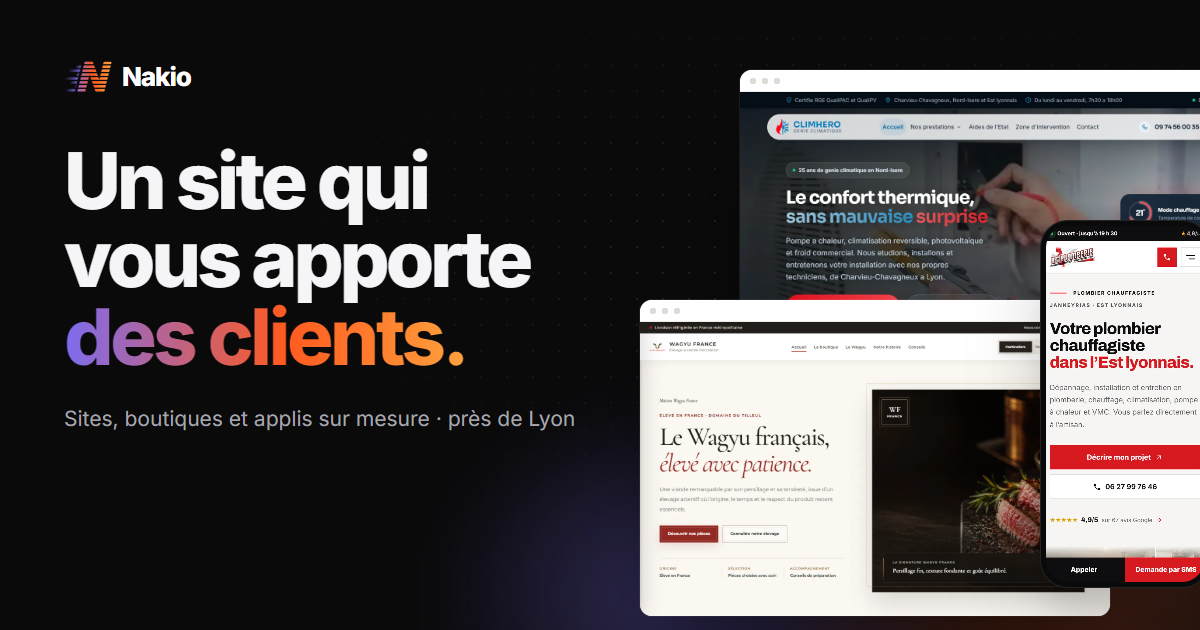
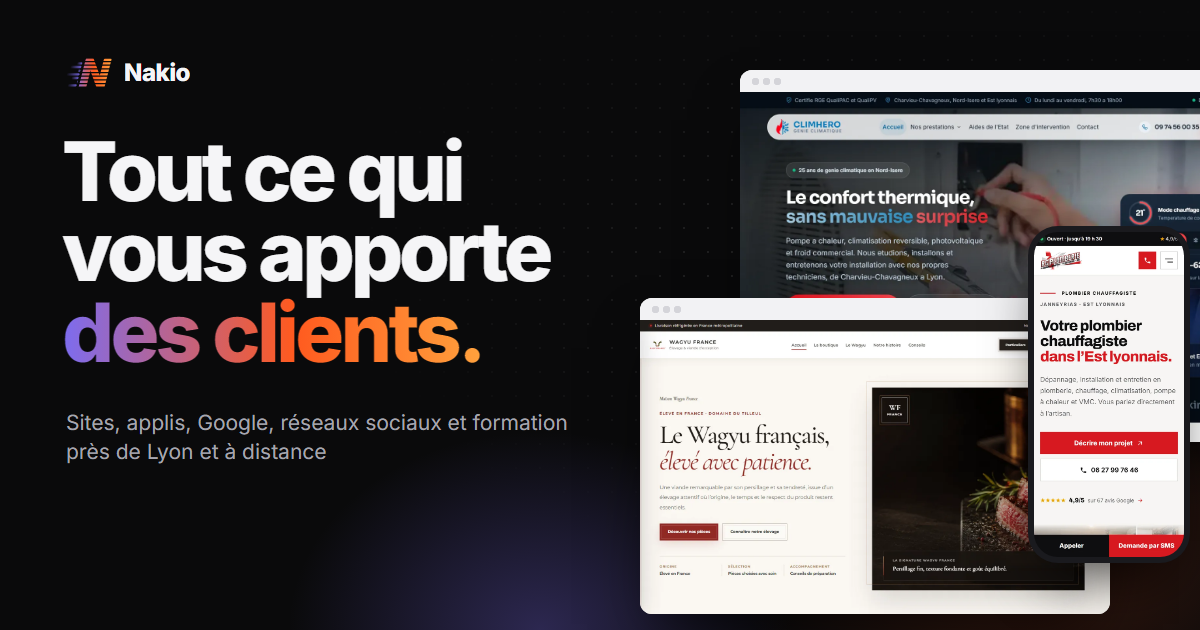
Toutes les compétences de Nakio : six offres, réseaux sociaux et formation

diff --git a/index.html b/index.html
@@ -3,16 +3,16 @@
 <head>
     <meta charset="utf-8">
     <meta name="viewport" content="width=device-width, initial-scale=1">
-    <title>Nakio · Sites, boutiques et applis sur mesure près de Lyon</title>
-    <meta name="description" content="Nakio crée des sites vitrines, des boutiques en ligne et des applis sur mesure pour les artisans, les commerces et les entreprises, puis les fait trouver sur Google. Diagnostic gratuit de votre projet, puis devis détaillé.">
+    <title>Nakio · Sites, applis, Google et réseaux sociaux près de Lyon</title>
+    <meta name="description" content="Sites, boutiques en ligne, applis et logiciels sur mesure, référencement Google, publicité, réseaux sociaux et formation : Nakio s’occupe de tout votre digital. Diagnostic gratuit, puis devis détaillé.">
     <link rel="canonical" href="https://nakio.fr/">
     <meta name="theme-color" content="#0A0A0B">
     <meta property="og:type" content="website">
     <meta property="og:locale" content="fr_FR">
     <meta property="og:site_name" content="Nakio">
     <meta property="og:url" content="https://nakio.fr/">
-    <meta property="og:title" content="Nakio · Un site qui vous apporte des clients">
-    <meta property="og:description" content="Sites vitrines, boutiques en ligne, applis sur mesure, référencement et publicité. Diagnostic gratuit, près de Lyon et à distance.">
+    <meta property="og:title" content="Nakio · Tout ce qui vous apporte des clients">
+    <meta property="og:description" content="Sites, boutiques, applis et logiciels, référencement, publicité, réseaux sociaux et formation. Diagnostic gratuit, près de Lyon et à distance.">
     <meta property="og:image" content="https://nakio.fr/assets/og.png">
     <meta property="og:image:width" content="1200">
     <meta property="og:image:height" content="630">
@@ -32,7 +32,7 @@
         "url": "https://nakio.fr/",
         "email": "contact@nakio.fr",
         "telephone": "+33650080442",
-        "description": "Sites vitrines, boutiques en ligne, applications web et mobiles, référencement et publicité en ligne.",
+        "description": "Sites vitrines, boutiques en ligne, applications et logiciels sur mesure, référencement, publicité en ligne, réseaux sociaux, formation et accompagnement.",
         "address": { "@type": "PostalAddress", "addressLocality": "Mions", "postalCode": "69780", "addressCountry": "FR" },
         "areaServed": "FR",
         "founder": { "@type": "Person", "name": "Rizlene Berrag", "jobTitle": "Fondatrice et développeuse" }
@@ -66,6 +66,7 @@
     <symbol id="i-cog" viewBox="0 0 24 24"><circle cx="12" cy="12" r="3"/><path d="M12 2.8v2.4M12 18.8v2.4M2.8 12h2.4M18.8 12h2.4M5.5 5.5l1.7 1.7M16.8 16.8l1.7 1.7M5.5 18.5l1.7-1.7M16.8 7.2l1.7-1.7"/></symbol>
     <symbol id="i-users" viewBox="0 0 24 24"><circle cx="9" cy="8.5" r="3.2"/><path d="M3.5 19.5c.7-3.2 2.9-5 5.5-5s4.8 1.8 5.5 5"/><circle cx="16.5" cy="9.5" r="2.6"/><path d="M15.5 14.6c2.4 0 4.3 1.6 5 4.9"/></symbol>
     <symbol id="i-card" viewBox="0 0 24 24"><rect x="2.8" y="5.5" width="18.4" height="13" rx="2.4"/><path d="M2.8 10h18.4M6.5 15h3"/></symbol>
+    <symbol id="i-learn" viewBox="0 0 24 24"><path d="M2.5 9.2 12 4.6l9.5 4.6L12 13.8z"/><path d="M6.5 11.4v4.4c1.5 1.5 3.4 2.4 5.5 2.4s4-.9 5.5-2.4v-4.4M21.5 9.2v5"/></symbol>
     <symbol id="i-tag" viewBox="0 0 24 24"><path d="M3.5 12.6V4.5a1 1 0 0 1 1-1h8.1l8 8a1.4 1.4 0 0 1 0 2l-6.1 6.1a1.4 1.4 0 0 1-2 0z"/><circle cx="8" cy="8" r="1.5"/></symbol>
 </svg>
 <a class="skip" href="#contenu">Aller au contenu</a>
@@ -107,8 +108,8 @@
         <div class="wrap hero__inner">
             <div class="hero__text">
                 <p class="pill pill--dark"><span class="pill__dot" aria-hidden="true"></span>Disponible pour de nouveaux projets</p>
-                <h1 class="hero__title">Un site qui vous apporte <span class="gradient-text">des clients.</span></h1>
-                <p class="hero__lead">Je m’appelle Rizlene, et Nakio, c’est mon studio. Je crée des sites, des boutiques en ligne et des applis sur mesure pour les artisans, les commerces et les entreprises, puis je les fais trouver sur Google.</p>
+                <h1 class="hero__title">Tout ce qui vous apporte <span class="gradient-text">des clients.</span></h1>
+                <p class="hero__lead">Je m’appelle Rizlene, et Nakio, c’est mon studio. Sites, boutiques, applis et logiciels, Google, publicité, réseaux sociaux, formation&nbsp;: je m’occupe de tout votre digital, de A à Z.</p>
                 <div class="hero__actions">
                     <a class="btn btn--light" href="#contact">Mon diagnostic gratuit<svg class="i"><use href="#i-arrow"/></svg></a>
                     <a class="btn btn--ghost-light" href="https://wa.me/33650080442?text=Bonjour%20Rizlene%2C%20j%E2%80%99aimerais%20un%20diagnostic%20gratuit%20pour%20mon%20projet." data-wa><svg class="i"><use href="#i-chat"/></svg>Écrire sur WhatsApp</a>
@@ -145,13 +146,13 @@
         </div>
     </div>
 
-    <!-- Ce que je fais : quatre offres claires. -->
+    <!-- Ce que je fais : six offres claires, du site à la formation. -->
     <section class="section section--white" id="services">
         <div class="wrap">
             <header class="section__head reveal">
                 <p class="eyebrow">Ce que je fais pour vous</p>
                 <h2 class="section__title">Tout ce qu’il faut pour être trouvé, choisi et contacté.</h2>
-                <p class="section__lead">Un site seul ne suffit pas toujours. Je m’occupe aussi de ce qui l’entoure, pour qu’il vous apporte vraiment des clients.</p>
+                <p class="section__lead">Un site seul ne suffit pas toujours. Je m’occupe de tout votre digital, de Google aux réseaux sociaux, et je vous forme pour que vous restiez maître de vos outils.</p>
             </header>
             <div class="offers">
                 <article class="offer reveal">
@@ -180,9 +181,9 @@
                 </article>
                 <article class="offer reveal">
                     <span class="offer__icon"><svg class="i"><use href="#i-app"/></svg></span>
-                    <h3>Appli web &amp; mobile</h3>
+                    <h3>Applis &amp; logiciels</h3>
                     <p class="offer__for">Pour un outil fait pour votre métier.</p>
-                    <p>Espace client, réservations, gestion interne&nbsp;: une appli simple dès la première utilisation, sur le web, l’iPhone et Android.</p>
+                    <p>Espace client, réservations, gestion interne, logiciel métier&nbsp;: un outil simple dès la première utilisation, sur le web, l’iPhone et Android.</p>
                     <ul class="ticks">
                         <li>Comptes, documents et paiements</li>
                         <li>iPhone, Android et web</li>
@@ -199,6 +200,28 @@
                         <li>Référencement local</li>
                         <li>Fiche Google Business</li>
                         <li>Google Ads, Facebook, Instagram</li>
+                    </ul>
+                </article>
+                <article class="offer reveal">
+                    <span class="offer__icon"><svg class="i"><use href="#i-heart"/></svg></span>
+                    <h3>Réseaux sociaux</h3>
+                    <p class="offer__for">Pour exister là où vos clients passent leur temps.</p>
+                    <p>Je mets en place vos pages sur les réseaux sociaux, à votre image et reliées à votre site, prêtes à publier.</p>
+                    <ul class="ticks">
+                        <li>Création ou reprise de vos pages</li>
+                        <li>À vos couleurs, reliées à votre site</li>
+                        <li>Prêtes pour vos publications</li>
+                    </ul>
+                </article>
+                <article class="offer reveal">
+                    <span class="offer__icon"><svg class="i"><use href="#i-learn"/></svg></span>
+                    <h3>Formation &amp; accompagnement</h3>
+                    <p class="offer__for">Pour être à l’aise avec vos outils.</p>
+                    <p>Je vous apprends à faire vivre votre site, votre fiche Google et vos réseaux, et je reste à vos côtés quand vous avez besoin de moi.</p>
+                    <ul class="ticks">
+                        <li>Prise en main de vos outils</li>
+                        <li>À votre rythme, à distance ou sur place</li>
+                        <li>Un suivi quand vous en avez besoin</li>
                     </ul>
                 </article>
             </div>
@@ -377,7 +400,7 @@
                     <li><span class="steps__num">1</span><div><h3>Le diagnostic, gratuit</h3><p>Un échange par téléphone, en visio ou sur place près de Lyon, puis mes recommandations concrètes.</p></div></li>
                     <li><span class="steps__num">2</span><div><h3>Le devis détaillé</h3><p>Ce qui sera fait, les délais et le prix. Vous décidez ensuite, tranquillement.</p></div></li>
                     <li><span class="steps__num">3</span><div><h3>La création</h3><p>La maquette d’abord, que vous validez, puis le développement avec une version à tester en ligne.</p></div></li>
-                    <li><span class="steps__num">4</span><div><h3>La mise en ligne et la suite</h3><p>Votre site part en ligne, je le fais connaître sur Google, et je reste là pour la suite.</p></div></li>
+                    <li><span class="steps__num">4</span><div><h3>La mise en ligne et la suite</h3><p>Votre projet part en ligne, je le fais connaître sur Google et les réseaux sociaux, je vous forme si vous le souhaitez, et je reste là pour la suite.</p></div></li>
                 </ol>
             </div>
             <aside class="diag reveal" aria-labelledby="diag-title">
@@ -402,7 +425,7 @@
             <header class="section__head reveal">
                 <p class="eyebrow eyebrow--light">Pourquoi Nakio</p>
                 <h2 class="section__title">Une seule personne, tout votre projet.</h2>
-                <p class="section__lead">Pas de commercial, pas d’intermédiaire&nbsp;: vous parlez directement à celle qui dessine, développe et met en ligne votre site.</p>
+                <p class="section__lead">Pas de commercial, pas d’intermédiaire&nbsp;: vous parlez directement à celle qui conçoit votre projet, le développe, le fait connaître et vous forme.</p>
             </header>
             <ul class="trust reveal">
                 <li class="trust__item"><span class="trust__icon"><svg><use href="#i-person"/></svg></span><h3>Une seule interlocutrice</h3><p>Du premier appel à la mise en ligne, c’est moi qui réponds et qui construis.</p></li>
@@ -420,7 +443,7 @@
                 <div class="about__mark" aria-hidden="true"><img src="/assets/nakio-mark.svg" alt="" width="56" height="36"></div>
                 <p class="eyebrow">Qui est derrière Nakio</p>
                 <h2 class="section__title section__title--sm">Rizlene Berrag, fondatrice et développeuse</h2>
-                <p>J’ai créé Nakio pour que les entreprises aient un site à leur image, sans passer par une grosse agence ni se perdre dans la technique. Je m’occupe de tout&nbsp;: le design, le développement, la mise en ligne et la visibilité.</p>
+                <p>J’ai créé Nakio pour que les entreprises aient un site à leur image, sans passer par une grosse agence ni se perdre dans la technique. Je m’occupe de tout&nbsp;: le design, le développement, la mise en ligne, la visibilité sur Google et les réseaux sociaux, et la formation pour que vous soyez à l’aise avec vos outils.</p>
                 <p>Je suis basée à Mions, près de Lyon, et je travaille aussi à distance, partout en France.</p>
             </div>
             <div class="about__app card reveal">
@@ -463,7 +486,11 @@
                 </details>
                 <details>
                     <summary>Et après la mise en ligne&nbsp;?</summary>
-                    <p>Je reste disponible pour la maintenance, les évolutions, le référencement et la publicité. Votre site continue de vivre avec votre activité.</p>
+                    <p>Je reste disponible pour la maintenance, les évolutions, le référencement, la publicité et les réseaux sociaux. Votre site continue de vivre avec votre activité.</p>
+                </details>
+                <details>
+                    <summary>Pouvez-vous me former à mes outils&nbsp;?</summary>
+                    <p>Oui. Je vous apprends à modifier votre site, à faire vivre votre fiche Google et vos réseaux sociaux, à votre rythme, à distance ou sur place près de Lyon. Et je reste là pour vous accompagner ensuite.</p>
                 </details>
             </div>
         </div>
@@ -490,8 +517,10 @@
                         <legend>Votre projet</legend>
                         <label><input type="checkbox" name="projet" value="Site vitrine"><span>Site vitrine</span></label>
                         <label><input type="checkbox" name="projet" value="Boutique en ligne"><span>Boutique en ligne</span></label>
-                        <label><input type="checkbox" name="projet" value="Appli web ou mobile"><span>Appli</span></label>
+                        <label><input type="checkbox" name="projet" value="Appli ou logiciel"><span>Appli ou logiciel</span></label>
                         <label><input type="checkbox" name="projet" value="Référencement et publicité"><span>Google &amp; publicité</span></label>
+                        <label><input type="checkbox" name="projet" value="Réseaux sociaux"><span>Réseaux sociaux</span></label>
+                        <label><input type="checkbox" name="projet" value="Formation et accompagnement"><span>Formation</span></label>
                         <label><input type="checkbox" name="projet" value="Refonte d’un site"><span>Refonte</span></label>
                     </fieldset>
                     <div class="form__row">
@@ -521,7 +550,7 @@
                     <img class="brand__mark" src="/assets/nakio-mark.svg" alt="" width="32" height="21">
                     <span class="brand__name">Nakio</span>
                 </a>
-                <p>Sites, boutiques et applis sur mesure, près de Lyon. Et <a href="/club/">l’appli des clubs sportifs</a>.</p>
+                <p>Sites, applis, Google, réseaux sociaux et formation, près de Lyon. Et <a href="/club/">l’appli des clubs sportifs</a>.</p>
             </div>
             <nav class="foot__col" aria-label="Le studio">
                 <p class="foot__title">Le studio</p>

diff --git a/application-sur-mesure.html b/application-sur-mesure.html
@@ -138,6 +138,7 @@
     <symbol id="i-cog" viewBox="0 0 24 24"><circle cx="12" cy="12" r="3"/><path d="M12 2.8v2.4M12 18.8v2.4M2.8 12h2.4M18.8 12h2.4M5.5 5.5l1.7 1.7M16.8 16.8l1.7 1.7M5.5 18.5l1.7-1.7M16.8 7.2l1.7-1.7"/></symbol>
     <symbol id="i-users" viewBox="0 0 24 24"><circle cx="9" cy="8.5" r="3.2"/><path d="M3.5 19.5c.7-3.2 2.9-5 5.5-5s4.8 1.8 5.5 5"/><circle cx="16.5" cy="9.5" r="2.6"/><path d="M15.5 14.6c2.4 0 4.3 1.6 5 4.9"/></symbol>
     <symbol id="i-card" viewBox="0 0 24 24"><rect x="2.8" y="5.5" width="18.4" height="13" rx="2.4"/><path d="M2.8 10h18.4M6.5 15h3"/></symbol>
+    <symbol id="i-learn" viewBox="0 0 24 24"><path d="M2.5 9.2 12 4.6l9.5 4.6L12 13.8z"/><path d="M6.5 11.4v4.4c1.5 1.5 3.4 2.4 5.5 2.4s4-.9 5.5-2.4v-4.4M21.5 9.2v5"/></symbol>
     <symbol id="i-tag" viewBox="0 0 24 24"><path d="M3.5 12.6V4.5a1 1 0 0 1 1-1h8.1l8 8a1.4 1.4 0 0 1 0 2l-6.1 6.1a1.4 1.4 0 0 1-2 0z"/><circle cx="8" cy="8" r="1.5"/></symbol>
 </svg>
 <a class="skip" href="#contenu">Aller au contenu</a>
@@ -280,7 +281,7 @@
                     <li><span class="steps__num">1</span><div><h3>Le diagnostic, gratuit</h3><p>Un échange par téléphone, en visio ou sur place près de Lyon, puis mes recommandations concrètes.</p></div></li>
                     <li><span class="steps__num">2</span><div><h3>Le devis détaillé</h3><p>Ce qui sera fait, les délais et le prix. Vous décidez ensuite, tranquillement.</p></div></li>
                     <li><span class="steps__num">3</span><div><h3>La création</h3><p>La maquette d’abord, que vous validez, puis le développement avec une version à tester en ligne.</p></div></li>
-                    <li><span class="steps__num">4</span><div><h3>La mise en ligne et la suite</h3><p>Votre site part en ligne, je le fais connaître sur Google, et je reste là pour la suite.</p></div></li>
+                    <li><span class="steps__num">4</span><div><h3>La mise en ligne et la suite</h3><p>Votre projet part en ligne, je le fais connaître sur Google et les réseaux sociaux, je vous forme si vous le souhaitez, et je reste là pour la suite.</p></div></li>
                 </ol>
             </div>
             <aside class="diag reveal" aria-labelledby="diag-title">
@@ -365,8 +366,10 @@
                         <legend>Votre projet</legend>
                         <label><input type="checkbox" name="projet" value="Site vitrine"><span>Site vitrine</span></label>
                         <label><input type="checkbox" name="projet" value="Boutique en ligne"><span>Boutique en ligne</span></label>
-                        <label><input type="checkbox" name="projet" value="Appli web ou mobile"><span>Appli</span></label>
+                        <label><input type="checkbox" name="projet" value="Appli ou logiciel"><span>Appli ou logiciel</span></label>
                         <label><input type="checkbox" name="projet" value="Référencement et publicité"><span>Google &amp; publicité</span></label>
+                        <label><input type="checkbox" name="projet" value="Réseaux sociaux"><span>Réseaux sociaux</span></label>
+                        <label><input type="checkbox" name="projet" value="Formation et accompagnement"><span>Formation</span></label>
                         <label><input type="checkbox" name="projet" value="Refonte d’un site"><span>Refonte</span></label>
                     </fieldset>
                     <div class="form__row">
@@ -396,7 +399,7 @@
                     <img class="brand__mark" src="/assets/nakio-mark.svg" alt="" width="32" height="21">
                     <span class="brand__name">Nakio</span>
                 </a>
-                <p>Sites, boutiques et applis sur mesure, près de Lyon. Et <a href="/club/">l’appli des clubs sportifs</a>.</p>
+                <p>Sites, applis, Google, réseaux sociaux et formation, près de Lyon. Et <a href="/club/">l’appli des clubs sportifs</a>.</p>
             </div>
             <nav class="foot__col" aria-label="Le studio">
                 <p class="foot__title">Le studio</p>

diff --git a/boutique-en-ligne.html b/boutique-en-ligne.html
@@ -138,6 +138,7 @@
     <symbol id="i-cog" viewBox="0 0 24 24"><circle cx="12" cy="12" r="3"/><path d="M12 2.8v2.4M12 18.8v2.4M2.8 12h2.4M18.8 12h2.4M5.5 5.5l1.7 1.7M16.8 16.8l1.7 1.7M5.5 18.5l1.7-1.7M16.8 7.2l1.7-1.7"/></symbol>
     <symbol id="i-users" viewBox="0 0 24 24"><circle cx="9" cy="8.5" r="3.2"/><path d="M3.5 19.5c.7-3.2 2.9-5 5.5-5s4.8 1.8 5.5 5"/><circle cx="16.5" cy="9.5" r="2.6"/><path d="M15.5 14.6c2.4 0 4.3 1.6 5 4.9"/></symbol>
     <symbol id="i-card" viewBox="0 0 24 24"><rect x="2.8" y="5.5" width="18.4" height="13" rx="2.4"/><path d="M2.8 10h18.4M6.5 15h3"/></symbol>
+    <symbol id="i-learn" viewBox="0 0 24 24"><path d="M2.5 9.2 12 4.6l9.5 4.6L12 13.8z"/><path d="M6.5 11.4v4.4c1.5 1.5 3.4 2.4 5.5 2.4s4-.9 5.5-2.4v-4.4M21.5 9.2v5"/></symbol>
     <symbol id="i-tag" viewBox="0 0 24 24"><path d="M3.5 12.6V4.5a1 1 0 0 1 1-1h8.1l8 8a1.4 1.4 0 0 1 0 2l-6.1 6.1a1.4 1.4 0 0 1-2 0z"/><circle cx="8" cy="8" r="1.5"/></symbol>
 </svg>
 <a class="skip" href="#contenu">Aller au contenu</a>
@@ -266,7 +267,7 @@
                     <li><span class="steps__num">1</span><div><h3>Le diagnostic, gratuit</h3><p>Un échange par téléphone, en visio ou sur place près de Lyon, puis mes recommandations concrètes.</p></div></li>
                     <li><span class="steps__num">2</span><div><h3>Le devis détaillé</h3><p>Ce qui sera fait, les délais et le prix. Vous décidez ensuite, tranquillement.</p></div></li>
                     <li><span class="steps__num">3</span><div><h3>La création</h3><p>La maquette d’abord, que vous validez, puis le développement avec une version à tester en ligne.</p></div></li>
-                    <li><span class="steps__num">4</span><div><h3>La mise en ligne et la suite</h3><p>Votre site part en ligne, je le fais connaître sur Google, et je reste là pour la suite.</p></div></li>
+                    <li><span class="steps__num">4</span><div><h3>La mise en ligne et la suite</h3><p>Votre projet part en ligne, je le fais connaître sur Google et les réseaux sociaux, je vous forme si vous le souhaitez, et je reste là pour la suite.</p></div></li>
                 </ol>
             </div>
             <aside class="diag reveal" aria-labelledby="diag-title">
@@ -351,8 +352,10 @@
                         <legend>Votre projet</legend>
                         <label><input type="checkbox" name="projet" value="Site vitrine"><span>Site vitrine</span></label>
                         <label><input type="checkbox" name="projet" value="Boutique en ligne"><span>Boutique en ligne</span></label>
-                        <label><input type="checkbox" name="projet" value="Appli web ou mobile"><span>Appli</span></label>
+                        <label><input type="checkbox" name="projet" value="Appli ou logiciel"><span>Appli ou logiciel</span></label>
                         <label><input type="checkbox" name="projet" value="Référencement et publicité"><span>Google &amp; publicité</span></label>
+                        <label><input type="checkbox" name="projet" value="Réseaux sociaux"><span>Réseaux sociaux</span></label>
+                        <label><input type="checkbox" name="projet" value="Formation et accompagnement"><span>Formation</span></label>
                         <label><input type="checkbox" name="projet" value="Refonte d’un site"><span>Refonte</span></label>
                     </fieldset>
                     <div class="form__row">
@@ -382,7 +385,7 @@
                     <img class="brand__mark" src="/assets/nakio-mark.svg" alt="" width="32" height="21">
                     <span class="brand__name">Nakio</span>
                 </a>
-                <p>Sites, boutiques et applis sur mesure, près de Lyon. Et <a href="/club/">l’appli des clubs sportifs</a>.</p>
+                <p>Sites, applis, Google, réseaux sociaux et formation, près de Lyon. Et <a href="/club/">l’appli des clubs sportifs</a>.</p>
             </div>
             <nav class="foot__col" aria-label="Le studio">
                 <p class="foot__title">Le studio</p>

diff --git a/creation-site-internet-lyon.html b/creation-site-internet-lyon.html
@@ -138,6 +138,7 @@
     <symbol id="i-cog" viewBox="0 0 24 24"><circle cx="12" cy="12" r="3"/><path d="M12 2.8v2.4M12 18.8v2.4M2.8 12h2.4M18.8 12h2.4M5.5 5.5l1.7 1.7M16.8 16.8l1.7 1.7M5.5 18.5l1.7-1.7M16.8 7.2l1.7-1.7"/></symbol>
     <symbol id="i-users" viewBox="0 0 24 24"><circle cx="9" cy="8.5" r="3.2"/><path d="M3.5 19.5c.7-3.2 2.9-5 5.5-5s4.8 1.8 5.5 5"/><circle cx="16.5" cy="9.5" r="2.6"/><path d="M15.5 14.6c2.4 0 4.3 1.6 5 4.9"/></symbol>
     <symbol id="i-card" viewBox="0 0 24 24"><rect x="2.8" y="5.5" width="18.4" height="13" rx="2.4"/><path d="M2.8 10h18.4M6.5 15h3"/></symbol>
+    <symbol id="i-learn" viewBox="0 0 24 24"><path d="M2.5 9.2 12 4.6l9.5 4.6L12 13.8z"/><path d="M6.5 11.4v4.4c1.5 1.5 3.4 2.4 5.5 2.4s4-.9 5.5-2.4v-4.4M21.5 9.2v5"/></symbol>
     <symbol id="i-tag" viewBox="0 0 24 24"><path d="M3.5 12.6V4.5a1 1 0 0 1 1-1h8.1l8 8a1.4 1.4 0 0 1 0 2l-6.1 6.1a1.4 1.4 0 0 1-2 0z"/><circle cx="8" cy="8" r="1.5"/></symbol>
 </svg>
 <a class="skip" href="#contenu">Aller au contenu</a>
@@ -293,7 +294,7 @@
                     <li><span class="steps__num">1</span><div><h3>Le diagnostic, gratuit</h3><p>Un échange par téléphone, en visio ou sur place près de Lyon, puis mes recommandations concrètes.</p></div></li>
                     <li><span class="steps__num">2</span><div><h3>Le devis détaillé</h3><p>Ce qui sera fait, les délais et le prix. Vous décidez ensuite, tranquillement.</p></div></li>
                     <li><span class="steps__num">3</span><div><h3>La création</h3><p>La maquette d’abord, que vous validez, puis le développement avec une version à tester en ligne.</p></div></li>
-                    <li><span class="steps__num">4</span><div><h3>La mise en ligne et la suite</h3><p>Votre site part en ligne, je le fais connaître sur Google, et je reste là pour la suite.</p></div></li>
+                    <li><span class="steps__num">4</span><div><h3>La mise en ligne et la suite</h3><p>Votre projet part en ligne, je le fais connaître sur Google et les réseaux sociaux, je vous forme si vous le souhaitez, et je reste là pour la suite.</p></div></li>
                 </ol>
             </div>
             <aside class="diag reveal" aria-labelledby="diag-title">
@@ -389,8 +390,10 @@
                         <legend>Votre projet</legend>
                         <label><input type="checkbox" name="projet" value="Site vitrine"><span>Site vitrine</span></label>
                         <label><input type="checkbox" name="projet" value="Boutique en ligne"><span>Boutique en ligne</span></label>
-                        <label><input type="checkbox" name="projet" value="Appli web ou mobile"><span>Appli</span></label>
+                        <label><input type="checkbox" name="projet" value="Appli ou logiciel"><span>Appli ou logiciel</span></label>
                         <label><input type="checkbox" name="projet" value="Référencement et publicité"><span>Google &amp; publicité</span></label>
+                        <label><input type="checkbox" name="projet" value="Réseaux sociaux"><span>Réseaux sociaux</span></label>
+                        <label><input type="checkbox" name="projet" value="Formation et accompagnement"><span>Formation</span></label>
                         <label><input type="checkbox" name="projet" value="Refonte d’un site"><span>Refonte</span></label>
                     </fieldset>
                     <div class="form__row">
@@ -420,7 +423,7 @@
                     <img class="brand__mark" src="/assets/nakio-mark.svg" alt="" width="32" height="21">
                     <span class="brand__name">Nakio</span>
                 </a>
-                <p>Sites, boutiques et applis sur mesure, près de Lyon. Et <a href="/club/">l’appli des clubs sportifs</a>.</p>
+                <p>Sites, applis, Google, réseaux sociaux et formation, près de Lyon. Et <a href="/club/">l’appli des clubs sportifs</a>.</p>
             </div>
             <nav class="foot__col" aria-label="Le studio">
                 <p class="foot__title">Le studio</p>

diff --git a/site-internet-artisan.html b/site-internet-artisan.html
@@ -138,6 +138,7 @@
     <symbol id="i-cog" viewBox="0 0 24 24"><circle cx="12" cy="12" r="3"/><path d="M12 2.8v2.4M12 18.8v2.4M2.8 12h2.4M18.8 12h2.4M5.5 5.5l1.7 1.7M16.8 16.8l1.7 1.7M5.5 18.5l1.7-1.7M16.8 7.2l1.7-1.7"/></symbol>
     <symbol id="i-users" viewBox="0 0 24 24"><circle cx="9" cy="8.5" r="3.2"/><path d="M3.5 19.5c.7-3.2 2.9-5 5.5-5s4.8 1.8 5.5 5"/><circle cx="16.5" cy="9.5" r="2.6"/><path d="M15.5 14.6c2.4 0 4.3 1.6 5 4.9"/></symbol>
     <symbol id="i-card" viewBox="0 0 24 24"><rect x="2.8" y="5.5" width="18.4" height="13" rx="2.4"/><path d="M2.8 10h18.4M6.5 15h3"/></symbol>
+    <symbol id="i-learn" viewBox="0 0 24 24"><path d="M2.5 9.2 12 4.6l9.5 4.6L12 13.8z"/><path d="M6.5 11.4v4.4c1.5 1.5 3.4 2.4 5.5 2.4s4-.9 5.5-2.4v-4.4M21.5 9.2v5"/></symbol>
     <symbol id="i-tag" viewBox="0 0 24 24"><path d="M3.5 12.6V4.5a1 1 0 0 1 1-1h8.1l8 8a1.4 1.4 0 0 1 0 2l-6.1 6.1a1.4 1.4 0 0 1-2 0z"/><circle cx="8" cy="8" r="1.5"/></symbol>
 </svg>
 <a class="skip" href="#contenu">Aller au contenu</a>
@@ -293,7 +294,7 @@
                     <li><span class="steps__num">1</span><div><h3>Le diagnostic, gratuit</h3><p>Un échange par téléphone, en visio ou sur place près de Lyon, puis mes recommandations concrètes.</p></div></li>
                     <li><span class="steps__num">2</span><div><h3>Le devis détaillé</h3><p>Ce qui sera fait, les délais et le prix. Vous décidez ensuite, tranquillement.</p></div></li>
                     <li><span class="steps__num">3</span><div><h3>La création</h3><p>La maquette d’abord, que vous validez, puis le développement avec une version à tester en ligne.</p></div></li>
-                    <li><span class="steps__num">4</span><div><h3>La mise en ligne et la suite</h3><p>Votre site part en ligne, je le fais connaître sur Google, et je reste là pour la suite.</p></div></li>
+                    <li><span class="steps__num">4</span><div><h3>La mise en ligne et la suite</h3><p>Votre projet part en ligne, je le fais connaître sur Google et les réseaux sociaux, je vous forme si vous le souhaitez, et je reste là pour la suite.</p></div></li>
                 </ol>
             </div>
             <aside class="diag reveal" aria-labelledby="diag-title">
@@ -378,8 +379,10 @@
                         <legend>Votre projet</legend>
                         <label><input type="checkbox" name="projet" value="Site vitrine"><span>Site vitrine</span></label>
                         <label><input type="checkbox" name="projet" value="Boutique en ligne"><span>Boutique en ligne</span></label>
-                        <label><input type="checkbox" name="projet" value="Appli web ou mobile"><span>Appli</span></label>
+                        <label><input type="checkbox" name="projet" value="Appli ou logiciel"><span>Appli ou logiciel</span></label>
                         <label><input type="checkbox" name="projet" value="Référencement et publicité"><span>Google &amp; publicité</span></label>
+                        <label><input type="checkbox" name="projet" value="Réseaux sociaux"><span>Réseaux sociaux</span></label>
+                        <label><input type="checkbox" name="projet" value="Formation et accompagnement"><span>Formation</span></label>
                         <label><input type="checkbox" name="projet" value="Refonte d’un site"><span>Refonte</span></label>
                     </fieldset>
                     <div class="form__row">
@@ -409,7 +412,7 @@
                     <img class="brand__mark" src="/assets/nakio-mark.svg" alt="" width="32" height="21">
                     <span class="brand__name">Nakio</span>
                 </a>
-                <p>Sites, boutiques et applis sur mesure, près de Lyon. Et <a href="/club/">l’appli des clubs sportifs</a>.</p>
+                <p>Sites, applis, Google, réseaux sociaux et formation, près de Lyon. Et <a href="/club/">l’appli des clubs sportifs</a>.</p>
             </div>
             <nav class="foot__col" aria-label="Le studio">
                 <p class="foot__title">Le studio</p>

diff --git a/site-internet-eleveur.html b/site-internet-eleveur.html
@@ -138,6 +138,7 @@
     <symbol id="i-cog" viewBox="0 0 24 24"><circle cx="12" cy="12" r="3"/><path d="M12 2.8v2.4M12 18.8v2.4M2.8 12h2.4M18.8 12h2.4M5.5 5.5l1.7 1.7M16.8 16.8l1.7 1.7M5.5 18.5l1.7-1.7M16.8 7.2l1.7-1.7"/></symbol>
     <symbol id="i-users" viewBox="0 0 24 24"><circle cx="9" cy="8.5" r="3.2"/><path d="M3.5 19.5c.7-3.2 2.9-5 5.5-5s4.8 1.8 5.5 5"/><circle cx="16.5" cy="9.5" r="2.6"/><path d="M15.5 14.6c2.4 0 4.3 1.6 5 4.9"/></symbol>
     <symbol id="i-card" viewBox="0 0 24 24"><rect x="2.8" y="5.5" width="18.4" height="13" rx="2.4"/><path d="M2.8 10h18.4M6.5 15h3"/></symbol>
+    <symbol id="i-learn" viewBox="0 0 24 24"><path d="M2.5 9.2 12 4.6l9.5 4.6L12 13.8z"/><path d="M6.5 11.4v4.4c1.5 1.5 3.4 2.4 5.5 2.4s4-.9 5.5-2.4v-4.4M21.5 9.2v5"/></symbol>
     <symbol id="i-tag" viewBox="0 0 24 24"><path d="M3.5 12.6V4.5a1 1 0 0 1 1-1h8.1l8 8a1.4 1.4 0 0 1 0 2l-6.1 6.1a1.4 1.4 0 0 1-2 0z"/><circle cx="8" cy="8" r="1.5"/></symbol>
 </svg>
 <a class="skip" href="#contenu">Aller au contenu</a>
@@ -319,7 +320,7 @@
                     <li><span class="steps__num">1</span><div><h3>Le diagnostic, gratuit</h3><p>Un échange par téléphone, en visio ou sur place près de Lyon, puis mes recommandations concrètes.</p></div></li>
                     <li><span class="steps__num">2</span><div><h3>Le devis détaillé</h3><p>Ce qui sera fait, les délais et le prix. Vous décidez ensuite, tranquillement.</p></div></li>
                     <li><span class="steps__num">3</span><div><h3>La création</h3><p>La maquette d’abord, que vous validez, puis le développement avec une version à tester en ligne.</p></div></li>
-                    <li><span class="steps__num">4</span><div><h3>La mise en ligne et la suite</h3><p>Votre site part en ligne, je le fais connaître sur Google, et je reste là pour la suite.</p></div></li>
+                    <li><span class="steps__num">4</span><div><h3>La mise en ligne et la suite</h3><p>Votre projet part en ligne, je le fais connaître sur Google et les réseaux sociaux, je vous forme si vous le souhaitez, et je reste là pour la suite.</p></div></li>
                 </ol>
             </div>
             <aside class="diag reveal" aria-labelledby="diag-title">
@@ -404,8 +405,10 @@
                         <legend>Votre projet</legend>
                         <label><input type="checkbox" name="projet" value="Site vitrine"><span>Site vitrine</span></label>
                         <label><input type="checkbox" name="projet" value="Boutique en ligne"><span>Boutique en ligne</span></label>
-                        <label><input type="checkbox" name="projet" value="Appli web ou mobile"><span>Appli</span></label>
+                        <label><input type="checkbox" name="projet" value="Appli ou logiciel"><span>Appli ou logiciel</span></label>
                         <label><input type="checkbox" name="projet" value="Référencement et publicité"><span>Google &amp; publicité</span></label>
+                        <label><input type="checkbox" name="projet" value="Réseaux sociaux"><span>Réseaux sociaux</span></label>
+                        <label><input type="checkbox" name="projet" value="Formation et accompagnement"><span>Formation</span></label>
                         <label><input type="checkbox" name="projet" value="Refonte d’un site"><span>Refonte</span></label>
                     </fieldset>
                     <div class="form__row">
@@ -435,7 +438,7 @@
                     <img class="brand__mark" src="/assets/nakio-mark.svg" alt="" width="32" height="21">
                     <span class="brand__name">Nakio</span>
                 </a>
-                <p>Sites, boutiques et applis sur mesure, près de Lyon. Et <a href="/club/">l’appli des clubs sportifs</a>.</p>
+                <p>Sites, applis, Google, réseaux sociaux et formation, près de Lyon. Et <a href="/club/">l’appli des clubs sportifs</a>.</p>
             </div>
             <nav class="foot__col" aria-label="Le studio">
                 <p class="foot__title">Le studio</p>
